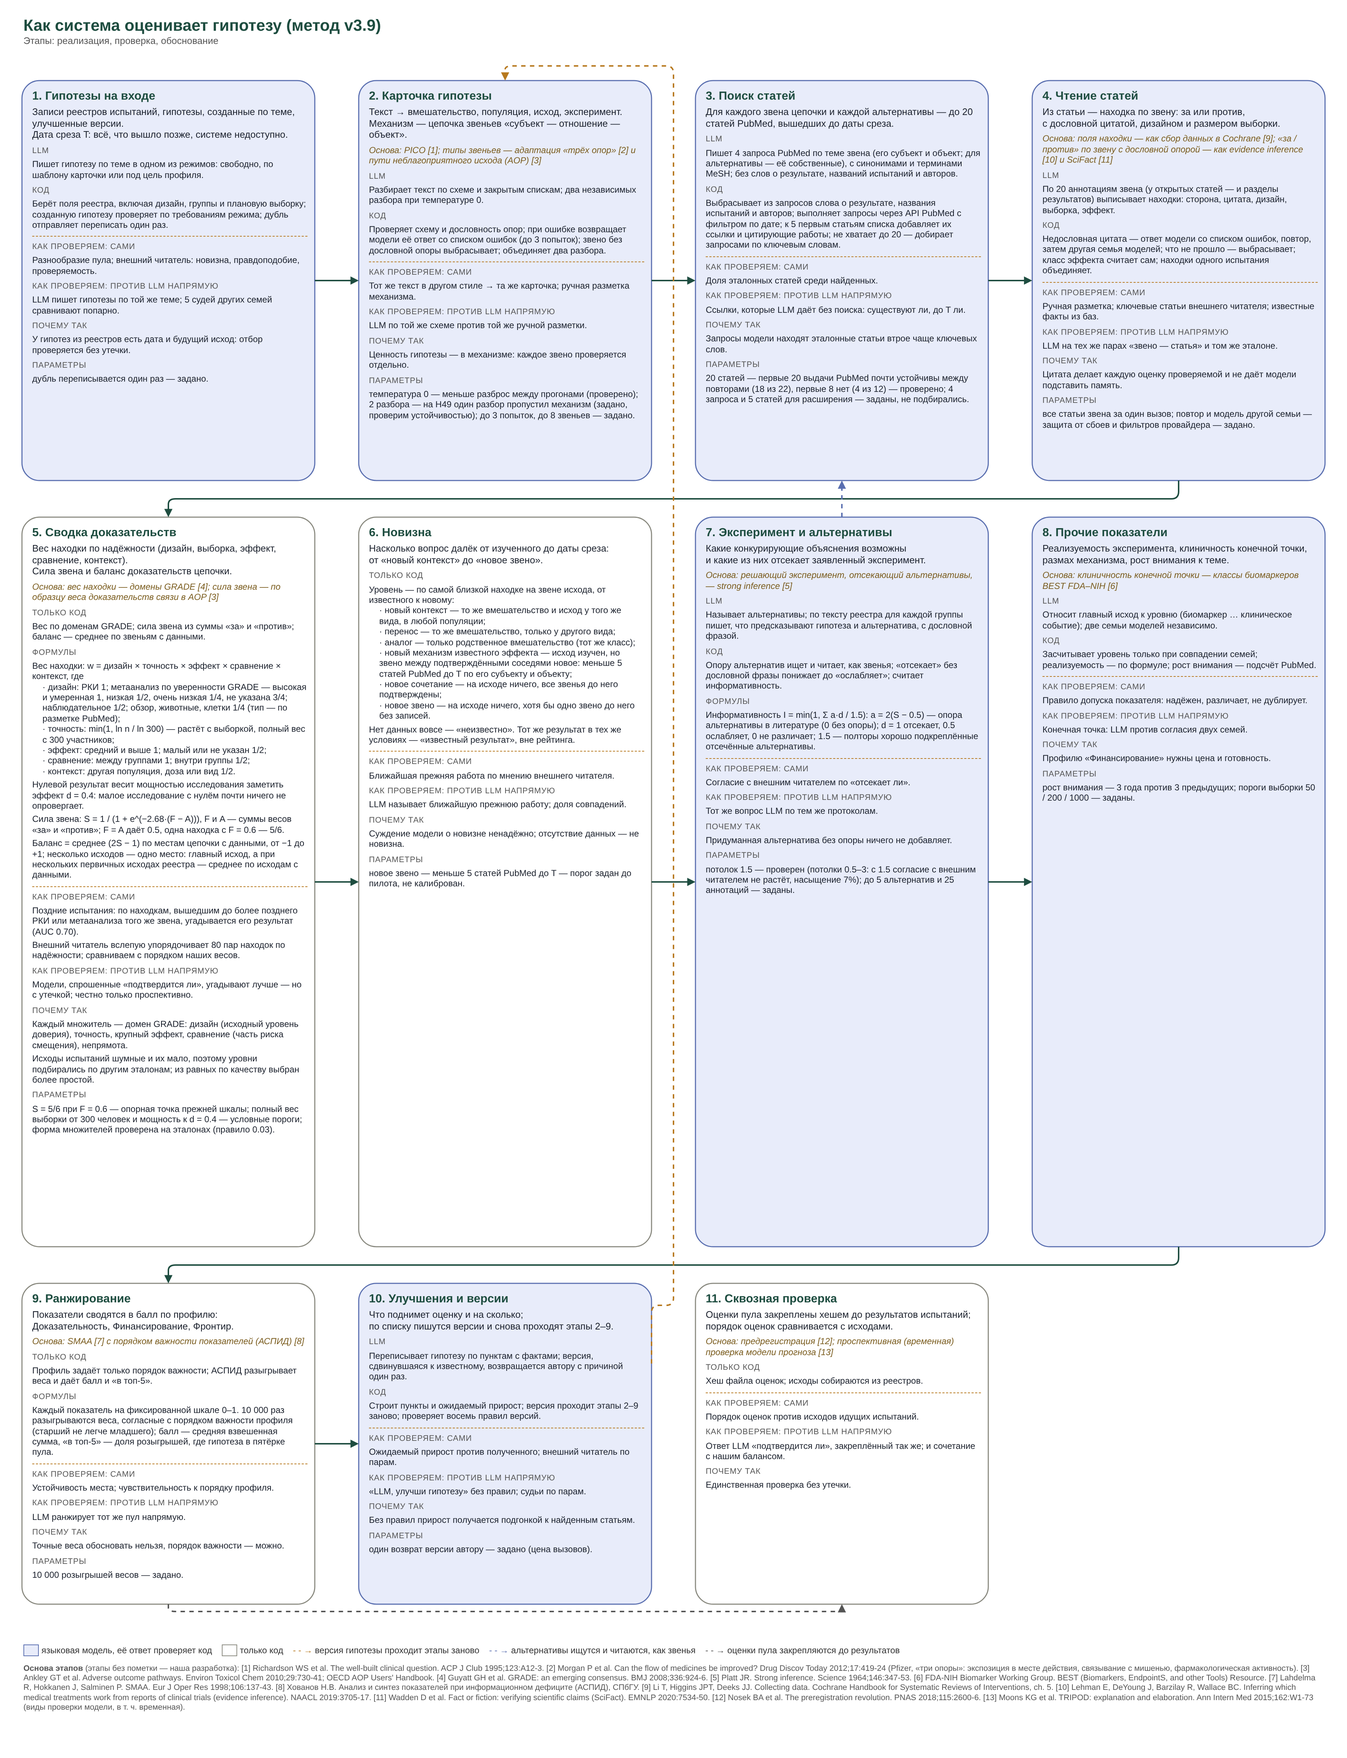
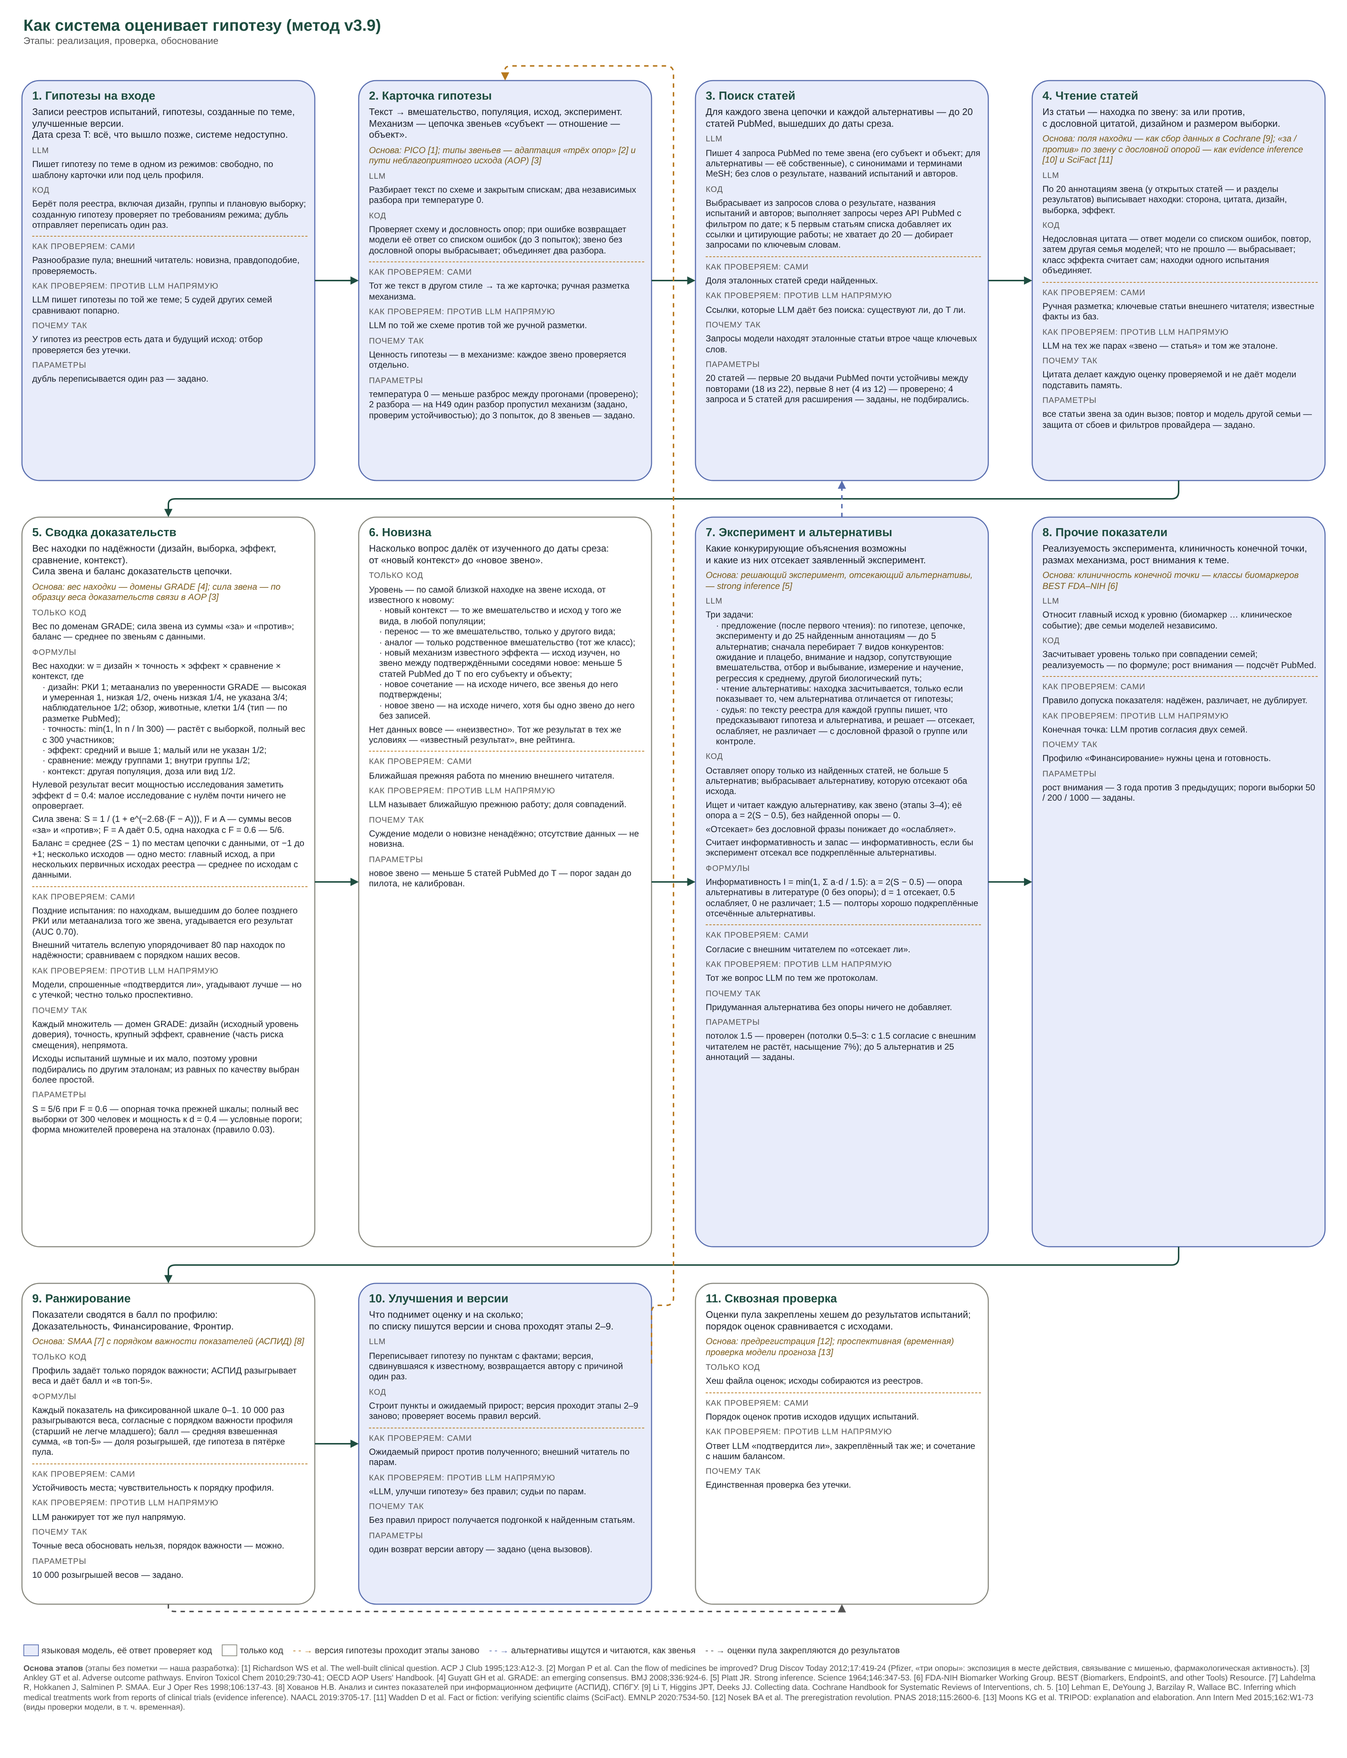
Alternatives: a finding counts only by the part that differs from the hypothesis (reader prompts v9-v13); the report shows the papers an alternative's support rests on; flow scheme: stage 7 model and code tasks; manual sections 3, 10; backlog: methodological alternatives by design
Claude-Session: https://claude.ai/code/session_015QaY8wcM8f6FoFe6WxnTtU

Changed region(s): [[0.5312, 0.3438, 0.7188, 0.5938]]

diff --git a/hyparena/templates/pool_report_v2.html b/hyparena/templates/pool_report_v2.html
@@ -425,7 +425,7 @@
             <tr><th rowspan="2">Альтернативное объяснение</th><th rowspan="2">Опора в литературе</th><th colspan="2" style="text-align:center">Что делает эксперимент</th></tr>
             <tr><th>при успехе</th><th>при неудаче</th></tr></thead><tbody>${r.alternatives.map((a, i) => { const t = ca[i];
             return `<tr><td>${t ? triplet(t) : esc(a.text)}</td>
-              <td>${f(a.support)}</td><td>${esc(nm('disc', a.on_positive))}</td><td>${esc(nm('disc', a.on_negative))}</td></tr>`; }).join('')}</tbody></table>` : '<p class="text-sm text-stone-500">Альтернативы не предложены.</p>';
+              <td>${f(a.support)}${(a.records || []).length ? `<div class="mt-1">${a.records.map(recBtn).join('')}</div>` : ''}</td><td>${esc(nm('disc', a.on_positive))}</td><td>${esc(nm('disc', a.on_negative))}</td></tr>`; }).join('')}</tbody></table>` : '<p class="text-sm text-stone-500">Альтернативы не предложены.</p>';
         const flags = (r.flags || []).length ? `<ul class="list-disc pl-5 text-sm">${r.flags.map(x => `<li><b>${esc(x.name)}</b>${x.detail ? ': ' + esc(x.detail) : ''}</li>`).join('')}</ul>` : '<p class="text-sm text-stone-500">Флагов нет.</p>';
         const imps = (r.improvements || []).length ? `<ul class="list-disc pl-5 text-sm">${r.improvements.map(i => `<li><b>${i.cls === 'rewrite' ? 'исправить формулировкой' : 'нужны новые данные'}:</b> ${esc(i.what)} <span class="text-emerald-900">${esc(i.expected)}</span>${i.facts.length ? ` <span class="text-stone-500">(${esc(i.facts.join(', '))})</span>` : ''}</li>`).join('')}</ul>` : '<p class="text-sm text-stone-500">Пунктов нет.</p>';
         return `<details id="eval-${esc(r.id)}" class="bg-white rounded-xl border border-stone-200 shadow-sm">

diff --git a/docs/system/build_flow.py b/docs/system/build_flow.py
@@ -79,8 +79,14 @@ STAGES = [
     dict(name="7. Эксперимент и альтернативы", formulas=['Информативность I = min(1, Σ a·d / 1.5): a = 2(S − 0.5) — опора альтернативы в литературе (0 без опоры); d = 1 отсекает, 0.5 ослабляет, 0 не различает; 1.5 — полторы хорошо подкреплённые отсечённые альтернативы.'], params="потолок 1.5 — проверен (потолки 0.5–3: с 1.5 согласие с внешним читателем не растёт, насыщение 7%); до 5 альтернатив и 25 аннотаций — заданы.", basis="решающий эксперимент, отсекающий альтернативы, — strong inference [5]", kind="llm",
          base=["Какие конкурирующие объяснения возможны",
                "и какие из них отсекает заявленный эксперимент."],
-         llm=['Называет альтернативы; по тексту реестра для каждой группы пишет, что предсказывают гипотеза и альтернатива, с дословной фразой.'],
-         code=['Опору альтернатив ищет и читает, как звенья; «отсекает» без дословной фразы понижает до «ослабляет»; считает информативность.'],
+                  llm=["Три задачи:",
+              "  · предложение (после первого чтения): по гипотезе, цепочке, эксперименту и до 25 найденным аннотациям — до 5 альтернатив; сначала перебирает 7 видов конкурентов: ожидание и плацебо, внимание и надзор, сопутствующие вмешательства, отбор и выбывание, измерение и научение, регрессия к среднему, другой биологический путь;",
+              "  · чтение альтернативы: находка засчитывается, только если показывает то, чем альтернатива отличается от гипотезы;",
+              "  · судья: по тексту реестра для каждой группы пишет, что предсказывают гипотеза и альтернатива, и решает — отсекает, ослабляет, не различает — с дословной фразой о группе или контроле."],
+                  code=["Оставляет опору только из найденных статей, не больше 5 альтернатив; выбрасывает альтернативу, которую отсекают оба исхода.",
+               "Ищет и читает каждую альтернативу, как звено (этапы 3–4); её опора a = 2(S − 0.5), без найденной опоры — 0.",
+               "«Отсекает» без дословной фразы понижает до «ослабляет».",
+               "Считает информативность и запас — информативность, если бы эксперимент отсекал все подкреплённые альтернативы."],
          own=["Согласие с внешним читателем по «отсекает ли»."],
          base_llm=["Тот же вопрос LLM по тем же протоколам."],
          why=["Придуманная альтернатива без опоры ничего не добавляет."]),

diff --git a/hyparena/report_html.py b/hyparena/report_html.py
@@ -241,8 +241,17 @@ def build(run: dict, scores: dict, units: list[dict], texts: dict[str, str], met
             ac = r32.Claim(id=alt.id, subject=alt.subject, relation=alt.relation, object=alt.object, qualifiers=alt.qualifiers,
                            role="premise", source_span="")
             support = r32.current_support(cv.evidence if cv else [], cv.counterevidence if cv else [], ac)
+            arecs = []                               # 2026-11-11: the papers the support rests on, as for the links
+            for side, lst in (("for", cv.evidence if cv else []), ("against", cv.counterevidence if cv else [])):
+                for rec in lst:
+                    w = r32.current_weight(rec, ac, side == "against")
+                    if w > 0:
+                        arecs.append({"side": side, "pmid": rec.record_id.replace("PMID:", ""), "w": round(w, 3),
+                                      "f": r32.current_factors(rec, ac, side == "against"), "design": r3.record_design(rec),
+                                      "n": rec.n_total, "effect": rec.effect_reported or rec.effect_class, "quote": rec.quote})
+            arecs.sort(key=lambda x: -x["w"])
             alt_rows.append({"id": alt.id, "text": f"{alt.subject.label} — {alt.relation.replace('_', ' ')} — {alt.object.label}",
-                             "why": alt.rationale, "support": round(support, 3),
+                             "why": alt.rationale, "support": round(support, 3), "records": arecs,
                              "on_positive": alt.on_positive, "on_negative": alt.on_negative})
         links = r3.chain(card)
         outs, primary = r3.outcome_group(card, links)

diff --git a/tests/test_search_context.py b/tests/test_search_context.py
@@ -58,3 +58,13 @@ def test_normalizer_v11_asks_for_a_direction_on_value_links():
     from hyparena.llm.prompts import render
     t = render("normalize_card", "v11", text="x", relations="promotes, changes_biomarker", hallmarks="", hint="", history_text="")
     assert "use changes_biomarker only when the text gives no direction" in t
+
+
+def test_the_reader_is_told_a_competitor_counts_only_by_its_own_part():
+    from hyparena.llm.prompts import render
+    alt = Claim(id="p2", subject={"label": "attention"}, relation="improves_healthspan_in", object={"label": "human"},
+                role="premise", source_span="", note=ALTERNATIVE_NOTE)
+    base = dict(claim=alt, negated=False, alternative=False, human_healthspan=False, contrast="", qualifiers="", endpoint="",
+                claim_plain="x", population="p", intervention="i", comparator="c", abstracts=[], history_text="")
+    assert "COMPETING EXPLANATION" in render("verify_claim", "v9", competitor=True, **base)
+    assert "COMPETING EXPLANATION" not in render("verify_claim", "v9", competitor=False, **base)

diff --git a/hyparena/card/verifier.py b/hyparena/card/verifier.py
@@ -446,7 +446,9 @@ def verify_claim(client, family: str, avoid: frozenset, claim, card: HypothesisC
     contrast = next((a for a in card.declared_alternatives if a.id == claim.qualifiers.get("contrast")), None)
     human_healthspan = claim_endpoint(claim) == "healthspan" and \
         species_key(claim.qualifiers.get("species") or claim.object.label) == "human"
+    from hyparena.card.search import ALTERNATIVE_NOTE   # 2026-11-11: a proposed alternative counts only by its own part
     variables = {"claim": claim, "negated": negated, "alternative": claim.role == "alternative",
+                 "competitor": claim.note == ALTERNATIVE_NOTE,
                  "human_healthspan": human_healthspan,
                  "contrast": contrast.subject.label + " " + contrast.relation + " " + contrast.object.label if contrast else "",
                  "qualifiers": ", ".join(f"{k}: {v}" for k, v in claim.qualifiers.items()

diff --git a/hyparena/report_v2.py b/hyparena/report_v2.py
@@ -156,7 +156,7 @@ def data(rep: dict) -> dict:
         })
         base["cover"] = slot_coverage(base["links"])
         results.append(base)
-        for c in x["chain"]:
+        for c in x["chain"] + [{"records": a.get("records", [])} for a in x.get("alternatives", [])]:
             for r in c["records"]:
                 e = pubmed.setdefault(r["pmid"], {"pmid": r["pmid"], "design": r["design"], "n": r["n"], "quote": r["quote"],
                                                   "used_in": [], "sides": set()})

diff --git a/docs/method-v3-manual.md b/docs/method-v3-manual.md
@@ -97,7 +97,10 @@ A model (the normaliser) turns the text into a card:
   `propose_alternatives`: up to 5, after going through seven kinds of competitor — expectation and placebo; attention and
   supervision; co-interventions; selection and attrition; measurement and learning; regression to the mean and natural
   course; another biological route), then searched and read like claims (their support comes from the records found, the
-  model's PMIDs only seed the search), and what the experiment does to each is judged from the registry text (section 7).
+  model's PMIDs only seed the search; since 2026-11-11 a finding counts for an alternative only when it shows the part that
+  differs from the hypothesis — for "attention and supervision" an effect of attention itself, not that the exercise works:
+  on H49 that alternative had been "supported" by meta-analyses of resistance training), and what the experiment does to
+  each is judged from the registry text (section 7).
   **Asymmetry, on purpose** (user decision 2026-11-11): the mechanism is taken strictly from the text (the hypothesis is
   scored as written), while competitors are looked for more widely than the author named them; their weight still comes
   only from literature found before T.
@@ -503,7 +506,8 @@ and is searchable. An outside report uses the same ids.
    - **Звенья цепочки и записи из статей**: link type; the statement as a triple; F / A; S with its 90% interval (or "нет
      данных"); link novelty; the records as chips (for green, against red, with the weight; hover: the quote; a click opens
      the paper card with the quote, design, n, the side and the hypotheses that use it).
-   - **Альтернативные объяснения**: the alternative as a triple; its support in the literature; under one header "Что делает
+   - **Альтернативные объяснения**: the alternative as a triple; its support in the literature with the papers it rests on
+     (chips as for the links, 2026-11-11); under one header "Что делает
      эксперимент" the two columns "при успехе" and "при неудаче".
    - **Флаги** with the concrete reason in this hypothesis, and **Что поднимет оценку**: the improvement list with the
      expected change of the indicators and of the score per profile, and the papers each item rests on.

diff --git a/docs/walkthrough/H49.md b/docs/walkthrough/H49.md
@@ -303,3 +303,5 @@ I = min(1, Σ a·d / 1.5).
 | Опора альтернативы засчитана статьями об общем эффекте, а не о том, чем альтернатива отличается (внимание подкреплено метаанализами силовых тренировок) | при чтении альтернативы требовать находку о её отличающей части (эффект внимания — из испытаний с контролем внимания)? |
 | Методические альтернативы (регрессия к среднему, научение на тесте, погрешность измерения, ожидание) — общие законы, литература по теме гипотезы их не «подкрепляет» | опора таких альтернатив по дизайну, а не по поиску? |
 | В отчёте у альтернатив нет статей, на которых держится их опора | показывать их, как у звеньев |
+
+**Решения по этапу 7 (2026-11-11):** находка засчитывается альтернативе только по её отличающей части (правило в промптах чтения v9–v13, мануал раздел 3); в отчёте у альтернатив — статьи опоры (проспективный отчёт обновлён); опора методических альтернатив по дизайну — в backlog; этап 7 на схеме расписан по задачам модели и кода.

diff --git a/docs/backlog.md b/docs/backlog.md
@@ -34,3 +34,4 @@ Items the user decided to defer; each points to its spec. Kept until done or dro
 | 2026-11-11 | Double count of a meta-analysis and the trials inside it (grouping is by trial id only) | H49 walkthrough, stage 5 | with (b) above or the full-text reading |
 | 2026-11-11 | Check of the parallel-outcome rule (mean over outcomes with data; no single primary with several registry primary outcomes; the card's outcome with one): how many units move, R2 / R3, rankings | manual section 7, H49 walkthrough stage 5 | free, on the saved pools, as specs/empty-slots-2026-11-09.yaml |
 | 2026-11-11 | Novelty: a code-built query for the closest prior work on the outcome link (intervention AND outcome, no population, no conditions); the papers found are read as usual (adjacent context where the population differs) | H49 walkthrough, stage 6 (ours 'analog', Argon 'new context': three prior papers missed) | with the H49 re-run: does it find PMIDs 33767255, 34127610, 30414822 |
+| 2026-11-11 | Methodological alternatives (regression to the mean, practice on the test, measurement error, expectation): support by design (as risk-of-bias tools), not by a literature search; d from the design (a concurrent randomised control cuts regression to the mean) | H49 walkthrough, stage 7 | a rule and a check on the saved pools (I against the outside reader) before a manual change |
